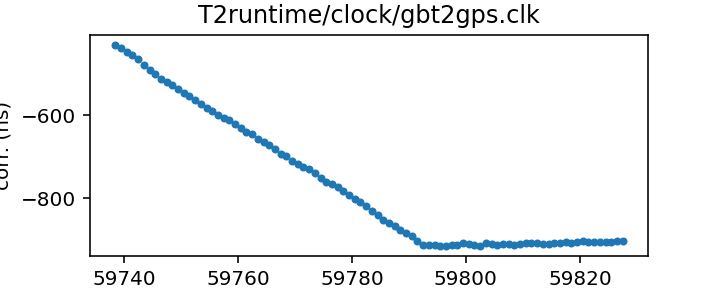
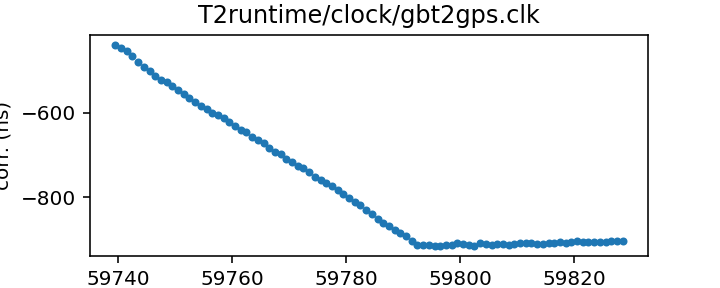
Routine gh-pages update from Github action Wed Sep  7 20:40:30 UTC 2022

diff --git a/status.md b/status.md
@@ -13,17 +13,17 @@ name of each clock file links to a page with more details.
 
 | Name | File | Corrections start | Corrections end | Last check date | Last check result 
 |:--- |:--- | --- | --- | --- |:--- 
-| [GPS to UTC](T2runtime/clock/gps2utc.clk.html) | `T2runtime/clock/gps2utc.clk` | 1993-01-01 MJD 48988.0 | 2022-07-29 MJD 59789.0 | 2022-09-06 | Unchanged 
-| [GPS to UTC (Combined Clock)](T2runtime/clock/gps2utc_cc.clk.html) | `T2runtime/clock/gps2utc_cc.clk` | 1993-01-01 MJD 48988.0 | 2022-07-29 MJD 59789.0 | 2022-09-06 | Unchanged 
-| [GPS to UTC (Corrected)](T2runtime/clock/gps2utc_c0p.clk.html) | `T2runtime/clock/gps2utc_c0p.clk` | 2010-12-29 MJD 55559.0 | 2022-07-29 MJD 59789.0 | 2022-09-06 | Unchanged 
-| [GBT](tempo/clock/time_gbt.dat.html) | `tempo/clock/time_gbt.dat` | 2000-12-31 MJD 51909.5 | 2022-09-05 MJD 59827.5 | 2022-09-06 | Updated 
-| [GBT (TEMPO2 converted from TEMPO)](T2runtime/clock/gbt2gps.clk.html) | `T2runtime/clock/gbt2gps.clk` | 2000-12-31 MJD 51909.5 | 2022-09-05 MJD 59827.5 | 2022-09-06 | Updated 
-| [Jodrell Bank](T2runtime/clock/jb2gps.clk.html) | `T2runtime/clock/jb2gps.clk` | 2006-10-13 MJD 54021.4 | 2021-11-03 MJD 59521.0 | 2022-08-31 | Unchanged 
-| [Jodrell Bank Roach](T2runtime/clock/jbroach2jb.clk.html) | `T2runtime/clock/jbroach2jb.clk` | 2006-10-13 MJD 54021.4 | 2018-03-20 MJD 58197.6 | 2022-08-31 | Unchanged 
-| [Jodrell Bank DFB](T2runtime/clock/jbdfb2jb.clk.html) | `T2runtime/clock/jbdfb2jb.clk` | 2006-10-13 MJD 54021.4 | 2017-05-11 MJD 57884.0 | 2022-08-31 | Unchanged 
+| [GPS to UTC](T2runtime/clock/gps2utc.clk.html) | `T2runtime/clock/gps2utc.clk` | 1993-01-01 MJD 48988.0 | 2022-07-29 MJD 59789.0 | 2022-09-07 | Unchanged 
+| [GPS to UTC (Combined Clock)](T2runtime/clock/gps2utc_cc.clk.html) | `T2runtime/clock/gps2utc_cc.clk` | 1993-01-01 MJD 48988.0 | 2022-07-29 MJD 59789.0 | 2022-09-07 | Unchanged 
+| [GPS to UTC (Corrected)](T2runtime/clock/gps2utc_c0p.clk.html) | `T2runtime/clock/gps2utc_c0p.clk` | 2010-12-29 MJD 55559.0 | 2022-07-29 MJD 59789.0 | 2022-09-07 | Unchanged 
+| [GBT](tempo/clock/time_gbt.dat.html) | `tempo/clock/time_gbt.dat` | 2000-12-31 MJD 51909.5 | 2022-09-06 MJD 59828.5 | 2022-09-07 | Updated 
+| [GBT (TEMPO2 converted from TEMPO)](T2runtime/clock/gbt2gps.clk.html) | `T2runtime/clock/gbt2gps.clk` | 2000-12-31 MJD 51909.5 | 2022-09-06 MJD 59828.5 | 2022-09-07 | Updated 
+| [Jodrell Bank](T2runtime/clock/jb2gps.clk.html) | `T2runtime/clock/jb2gps.clk` | 2006-10-13 MJD 54021.4 | 2021-11-03 MJD 59521.0 | 2022-09-07 | Unchanged 
+| [Jodrell Bank Roach](T2runtime/clock/jbroach2jb.clk.html) | `T2runtime/clock/jbroach2jb.clk` | 2006-10-13 MJD 54021.4 | 2018-03-20 MJD 58197.6 | 2022-09-07 | Unchanged 
+| [Jodrell Bank DFB](T2runtime/clock/jbdfb2jb.clk.html) | `T2runtime/clock/jbdfb2jb.clk` | 2006-10-13 MJD 54021.4 | 2017-05-11 MJD 57884.0 | 2022-09-07 | Unchanged 
 | [Meerkat (observatory)](T2runtime/clock/mk2utc_observatory.clk.html) | `T2runtime/clock/mk2utc_observatory.clk` | 2019-01-01 MJD 58484.0 | 2022-08-17 MJD 59809.0 | 2022-09-05 | **Failed to download** 
-| [Leap seconds](tempo/clock/leap.sec.html) | `tempo/clock/leap.sec` | 1972-07-01 MJD 41499.0 | 2017-01-01 MJD 57754.0 | 2022-09-06 | Unchanged 
-| [UT1 table](tempo/clock/ut1.dat.html) | `tempo/clock/ut1.dat` | 1973-01-02 MJD 41684.0 | 2023-09-09 MJD 60196.0 | 2022-09-06 | Unchanged 
+| [Leap seconds](tempo/clock/leap.sec.html) | `tempo/clock/leap.sec` | 1972-07-01 MJD 41499.0 | 2017-01-01 MJD 57754.0 | 2022-09-07 | Unchanged 
+| [UT1 table](tempo/clock/ut1.dat.html) | `tempo/clock/ut1.dat` | 1973-01-02 MJD 41684.0 | 2023-09-09 MJD 60196.0 | 2022-09-07 | Unchanged 
 
 
 
@@ -67,21 +67,21 @@ name of each clock file links to a page with more details.
 | [GBT (TEMPO2)](T2runtime/clock/gbt2gps_tempo2.clk.html) | `T2runtime/clock/gbt2gps_tempo2.clk` | 2000-12-31 MJD 51909.5 | 2020-02-25 MJD 58904.5 | 2022-09-05 | Unchanged 
 | [Jodrell Bank (TEMPO)](tempo/clock/time_jb.dat.html) | `tempo/clock/time_jb.dat` | 2006-10-13 MJD 54021.4 | 2019-05-13 MJD 58616.2 | 2022-09-01 | Unchanged 
 | [VLA](tempo/clock/time_vla.dat.html) | `tempo/clock/time_vla.dat` | 1990-10-27 MJD 48191.2 | 2021-03-07 MJD 59280.5 | 2022-09-01 | **Failed to download** 
-| [VLA (TEMPO2)](T2runtime/clock/vla2gps.clk.html) | `T2runtime/clock/vla2gps.clk` | 2015-02-01 MJD 57054.6 | 2021-03-07 MJD 59280.5 | 2022-08-31 | Unchanged 
-| [VLA to NIST](T2runtime/clock/vla2nist.clk.html) | `T2runtime/clock/vla2nist.clk` | 1990-10-27 MJD 48191.2 | 1993-11-13 MJD 49304.0 | 2022-08-31 | Unchanged 
+| [VLA (TEMPO2)](T2runtime/clock/vla2gps.clk.html) | `T2runtime/clock/vla2gps.clk` | 2015-02-01 MJD 57054.6 | 2021-03-07 MJD 59280.5 | 2022-09-07 | Unchanged 
+| [VLA to NIST](T2runtime/clock/vla2nist.clk.html) | `T2runtime/clock/vla2nist.clk` | 1990-10-27 MJD 48191.2 | 1993-11-13 MJD 49304.0 | 2022-09-07 | Unchanged 
 | [FAST](tempo/clock/time_fast.dat.html) | `tempo/clock/time_fast.dat` | 2017-07-26 MJD 57960.4 | 2019-09-18 MJD 58744.0 | 2022-09-01 | **Failed to download** 
 | [WSRT](T2runtime/clock/wsrt2gps.clk.html) | `T2runtime/clock/wsrt2gps.clk` | 1999-01-01 MJD 51179.5 | 2015-06-29 MJD 57202.1 | 2022-09-01 | Unchanged 
 | [WSRT (TEMPO)](tempo/clock/time_wsrt.dat.html) | `tempo/clock/time_wsrt.dat` | 1987-07-24 MJD 47000.0 | 2007-12-24 MJD 54458.0 | 2022-09-01 | **Validation failed** 
-| [Parkes](T2runtime/clock/pks2gps.clk.html) | `T2runtime/clock/pks2gps.clk` | 1858-11-17 MJD 0.0 | 2019-07-31 MJD 58695.4 | 2022-08-31 | Unchanged 
+| [Parkes](T2runtime/clock/pks2gps.clk.html) | `T2runtime/clock/pks2gps.clk` | 1858-11-17 MJD 0.0 | 2019-07-31 MJD 58695.4 | 2022-09-07 | Unchanged 
 | [Parkes (TEMPO)](tempo/clock/time_pks.dat.html) | `tempo/clock/time_pks.dat` | 1979-05-07 MJD 44000.0 | 2011-07-03 MJD 55745.8 | 2022-09-01 | **Validation failed** 
-| [SRT](T2runtime/clock/srt2gps.clk.html) | `T2runtime/clock/srt2gps.clk` | 2013-03-20 MJD 56371.0 | 2019-12-11 MJD 58828.0 | 2022-08-31 | Unchanged 
-| [Effelsberg](T2runtime/clock/eff2gps.clk.html) | `T2runtime/clock/eff2gps.clk` | 1993-11-29 MJD 49320.0 | 2015-06-22 MJD 57195.5 | 2022-08-31 | Unchanged 
-| [Effelsberg Asterix/PSRix](T2runtime/clock/effix2gps.clk.html) | `T2runtime/clock/effix2gps.clk` | 2011-01-01 MJD 55562.5 | 2021-03-21 MJD 59294.5 | 2022-08-31 | Unchanged 
+| [SRT](T2runtime/clock/srt2gps.clk.html) | `T2runtime/clock/srt2gps.clk` | 2013-03-20 MJD 56371.0 | 2019-12-11 MJD 58828.0 | 2022-09-07 | Unchanged 
+| [Effelsberg](T2runtime/clock/eff2gps.clk.html) | `T2runtime/clock/eff2gps.clk` | 1993-11-29 MJD 49320.0 | 2015-06-22 MJD 57195.5 | 2022-09-07 | Unchanged 
+| [Effelsberg Asterix/PSRix](T2runtime/clock/effix2gps.clk.html) | `T2runtime/clock/effix2gps.clk` | 2011-01-01 MJD 55562.5 | 2021-03-21 MJD 59294.5 | 2022-09-07 | Unchanged 
 | [NUPPI](tempo/clock/time_nuppi.dat.html) | `tempo/clock/time_nuppi.dat` | 2005-03-07 MJD 53436.0 | 2015-11-08 MJD 57334.6 | 2022-09-01 | Unchanged 
-| [Meerkat (TEMPO2)](T2runtime/clock/mk2utc.clk.html) | `T2runtime/clock/mk2utc.clk` | 2019-01-01 MJD 58484.0 | 2021-02-22 MJD 59268.0 | 2022-08-31 | Unchanged 
-| [MOST](T2runtime/clock/mo2gps.clk.html) | `T2runtime/clock/mo2gps.clk` | 2003-12-27 MJD 53000.0 | 2018-09-06 MJD 58367.0 | 2022-08-31 | Unchanged 
-| [Nancay to obspm](T2runtime/clock/ncyobs2obspm.clk.html) | `T2runtime/clock/ncyobs2obspm.clk` | 1988-05-18 MJD 47299.6 | 2021-11-01 MJD 59519.6 | 2022-08-31 | Unchanged 
-| [obspm](T2runtime/clock/obspm2gps.clk.html) | `T2runtime/clock/obspm2gps.clk` | 2003-12-01 MJD 52974.0 | 2021-08-28 MJD 59454.0 | 2022-08-31 | Unchanged 
+| [Meerkat (TEMPO2)](T2runtime/clock/mk2utc.clk.html) | `T2runtime/clock/mk2utc.clk` | 2019-01-01 MJD 58484.0 | 2021-02-22 MJD 59268.0 | 2022-09-07 | Unchanged 
+| [MOST](T2runtime/clock/mo2gps.clk.html) | `T2runtime/clock/mo2gps.clk` | 2003-12-27 MJD 53000.0 | 2018-09-06 MJD 58367.0 | 2022-09-07 | Unchanged 
+| [Nancay to obspm](T2runtime/clock/ncyobs2obspm.clk.html) | `T2runtime/clock/ncyobs2obspm.clk` | 1988-05-18 MJD 47299.6 | 2021-11-01 MJD 59519.6 | 2022-09-07 | Unchanged 
+| [obspm](T2runtime/clock/obspm2gps.clk.html) | `T2runtime/clock/obspm2gps.clk` | 2003-12-01 MJD 52974.0 | 2021-08-28 MJD 59454.0 | 2022-09-07 | Unchanged 
 
 
 ### Further information:

diff --git a/T2runtime/clock/gps2utc_c0p.clk.md b/T2runtime/clock/gps2utc_c0p.clk.md
@@ -30,12 +30,11 @@ about the BIPM's published corrections, contact <tai@bipm.org>.
 | Clock file start | 2010-12-29 MJD 55559.0 |
 | Clock file end | 2022-07-29 MJD 59789.0 |
 | Update interval (days) | 1 |
-| Last update attempt | 2022-09-06 |
+| Last update attempt | 2022-09-07 |
 | Last update result | Unchanged |
 
 Log entries from the last few update attempts:
 ```
-2022-08-28 20:34:12.081 - Validation failed: New version of T2runtime/clock/gps2utc_c0p.clk clock corrections differ from old version where they overlap in 1 places
 2022-08-29 20:35:23.143 - Validation failed: New version of T2runtime/clock/gps2utc_c0p.clk clock corrections differ from old version where they overlap in 1 places
 2022-08-30 20:35:27.567 - Validation failed: New version of T2runtime/clock/gps2utc_c0p.clk clock corrections differ from old version where they overlap in 1 places
 2022-08-31 16:37:46.540 - Validation failed: New version of T2runtime/clock/gps2utc_c0p.clk has decreased from 4201 to 4171 measurements.
@@ -45,6 +44,7 @@ Log entries from the last few update attempts:
 2022-09-04 20:35:16.200 - Unchanged
 2022-09-05 20:35:28.600 - Unchanged
 2022-09-06 20:35:58.451 - Unchanged
+2022-09-07 20:40:06.098 - Unchanged
 ```
 [Full log](https://raw.githubusercontent.com/ipta/pulsar-clock-corrections/main/log/T2runtime/clock/gps2utc_c0p.clk.log)
 

diff --git a/T2runtime/clock/gps2utc.clk.md b/T2runtime/clock/gps2utc.clk.md
@@ -32,12 +32,11 @@ about the BIPM's published corrections, contact <tai@bipm.org>.
 | Clock file start | 1993-01-01 MJD 48988.0 |
 | Clock file end | 2022-07-29 MJD 59789.0 |
 | Update interval (days) | 1 |
-| Last update attempt | 2022-09-06 |
+| Last update attempt | 2022-09-07 |
 | Last update result | Unchanged |
 
 Log entries from the last few update attempts:
 ```
-2022-08-28 20:34:12.018 - Validation failed: New version of T2runtime/clock/gps2utc.clk clock corrections differ from old version where they overlap in 1 places
 2022-08-29 20:35:23.082 - Validation failed: New version of T2runtime/clock/gps2utc.clk clock corrections differ from old version where they overlap in 1 places
 2022-08-30 20:35:27.491 - Validation failed: New version of T2runtime/clock/gps2utc.clk clock corrections differ from old version where they overlap in 1 places
 2022-08-31 16:37:46.504 - Validation failed: New version of T2runtime/clock/gps2utc.clk has decreased from 10828 to 10798 measurements.
@@ -47,6 +46,7 @@ Log entries from the last few update attempts:
 2022-09-04 20:35:16.130 - Unchanged
 2022-09-05 20:35:28.547 - Unchanged
 2022-09-06 20:35:58.396 - Unchanged
+2022-09-07 20:40:06.054 - Unchanged
 ```
 [Full log](https://raw.githubusercontent.com/ipta/pulsar-clock-corrections/main/log/T2runtime/clock/gps2utc.clk.log)
 

diff --git a/tempo/clock/time_gbt.dat.md b/tempo/clock/time_gbt.dat.md
@@ -18,14 +18,13 @@ If questions arise, contact Ryan S. Lynch <rlynch@nrao.edu>.
 | Format | tempo |
 | Bogus last correction | False |
 | Clock file start | 2000-12-31 MJD 51909.5 |
-| Clock file end | 2022-09-05 MJD 59827.5 |
+| Clock file end | 2022-09-06 MJD 59828.5 |
 | Update interval (days) | 1 |
-| Last update attempt | 2022-09-06 |
+| Last update attempt | 2022-09-07 |
 | Last update result | Updated |
 
 Log entries from the last few update attempts:
 ```
-2022-08-28 20:34:12.413 - Validation failed: New version of tempo/clock/time_gbt.dat clock corrections differ from old version where they overlap in 1 places
 2022-08-29 20:35:23.989 - Validation failed: New version of tempo/clock/time_gbt.dat clock corrections differ from old version where they overlap in 1 places
 2022-08-30 20:35:28.495 - Validation failed: New version of tempo/clock/time_gbt.dat clock corrections differ from old version where they overlap in 1 places
 2022-08-31 16:37:46.402 - Updated
@@ -35,6 +34,7 @@ Log entries from the last few update attempts:
 2022-09-04 20:35:17.025 - Updated
 2022-09-05 20:35:29.421 - Updated
 2022-09-06 20:35:59.335 - Updated
+2022-09-07 20:40:06.476 - Updated
 ```
 [Full log](https://raw.githubusercontent.com/ipta/pulsar-clock-corrections/main/log/tempo/clock/time_gbt.dat.log)
 

diff --git a/T2runtime/clock/gbt2gps.clk.md b/T2runtime/clock/gbt2gps.clk.md
@@ -23,14 +23,13 @@ If questions arise about the conversion, contact Anne Archibald
 | Format | tempo2 |
 | Bogus last correction | False |
 | Clock file start | 2000-12-31 MJD 51909.5 |
-| Clock file end | 2022-09-05 MJD 59827.5 |
+| Clock file end | 2022-09-06 MJD 59828.5 |
 | Update interval (days) | 1 |
-| Last update attempt | 2022-09-06 |
+| Last update attempt | 2022-09-07 |
 | Last update result | Updated |
 
 Log entries from the last few update attempts:
 ```
-2022-07-30 20:32:10.692 - Updated
 2022-07-31 20:33:29.497 - Updated
 2022-08-01 20:37:41.202 - Updated
 2022-08-31 16:39:03.349 - Updated
@@ -40,12 +39,13 @@ Log entries from the last few update attempts:
 2022-09-04 20:35:17.118 - Updated
 2022-09-05 20:35:29.913 - Updated
 2022-09-06 20:35:59.422 - Updated
+2022-09-07 20:40:06.548 - Updated
 ```
 [Full log](https://raw.githubusercontent.com/ipta/pulsar-clock-corrections/main/log/T2runtime/clock/gbt2gps.clk.log)
 
 Leading comments from clock file:
 
-    # This file was automatically converted from tempo/clock/time_gbt.dat on 2022-09-06 20:35:59.339
+    # This file was automatically converted from tempo/clock/time_gbt.dat on 2022-09-07 20:40:06.478
 
 
 

diff --git a/T2runtime/clock/vla2nist.clk.md b/T2runtime/clock/vla2nist.clk.md
@@ -16,12 +16,11 @@ This file is pulled from the TEMPO2 repository and may not be fully up-to-date.
 | Clock file start | 1990-10-27 MJD 48191.2 |
 | Clock file end | 1993-11-13 MJD 49304.0 |
 | Update interval (days) | 7 |
-| Last update attempt | 2022-08-31 |
+| Last update attempt | 2022-09-07 |
 | Last update result | Unchanged |
 
 Log entries from the last few update attempts:
 ```
-2022-06-29 20:36:08.172 - Unchanged
 2022-07-06 20:33:09.210 - Unchanged
 2022-07-13 20:34:15.347 - Unchanged
 2022-07-20 20:36:47.939 - Unchanged
@@ -31,6 +30,7 @@ Log entries from the last few update attempts:
 2022-08-17 20:34:04.884 - Unchanged
 2022-08-24 20:34:36.417 - Unchanged
 2022-08-31 20:34:57.441 - Unchanged
+2022-09-07 20:40:07.572 - Unchanged
 ```
 [Full log](https://raw.githubusercontent.com/ipta/pulsar-clock-corrections/main/log/T2runtime/clock/vla2nist.clk.log)
 

diff --git a/T2runtime/clock/srt2gps.clk.md b/T2runtime/clock/srt2gps.clk.md
@@ -16,12 +16,11 @@ This file is pulled from the TEMPO2 repository and may not be fully up-to-date.
 | Clock file start | 2013-03-20 MJD 56371.0 |
 | Clock file end | 2019-12-11 MJD 58828.0 |
 | Update interval (days) | 7 |
-| Last update attempt | 2022-08-31 |
+| Last update attempt | 2022-09-07 |
 | Last update result | Unchanged |
 
 Log entries from the last few update attempts:
 ```
-2022-06-29 20:36:09.137 - Unchanged
 2022-07-06 20:33:09.809 - Unchanged
 2022-07-13 20:34:15.833 - Unchanged
 2022-07-20 20:36:48.508 - Unchanged
@@ -31,6 +30,7 @@ Log entries from the last few update attempts:
 2022-08-17 20:34:05.471 - Unchanged
 2022-08-24 20:34:37.625 - Unchanged
 2022-08-31 20:34:57.967 - Unchanged
+2022-09-07 20:40:07.975 - Unchanged
 ```
 [Full log](https://raw.githubusercontent.com/ipta/pulsar-clock-corrections/main/log/T2runtime/clock/srt2gps.clk.log)
 

diff --git a/T2runtime/clock/vla2gps.clk.md b/T2runtime/clock/vla2gps.clk.md
@@ -16,12 +16,11 @@ This file is pulled from the TEMPO2 repository and may not be fully up-to-date.
 | Clock file start | 2015-02-01 MJD 57054.6 |
 | Clock file end | 2021-03-07 MJD 59280.5 |
 | Update interval (days) | 7 |
-| Last update attempt | 2022-08-31 |
+| Last update attempt | 2022-09-07 |
 | Last update result | Unchanged |
 
 Log entries from the last few update attempts:
 ```
-2022-06-29 20:36:07.860 - Unchanged
 2022-07-06 20:33:09.034 - Unchanged
 2022-07-13 20:34:15.178 - Unchanged
 2022-07-20 20:36:47.734 - Unchanged
@@ -31,6 +30,7 @@ Log entries from the last few update attempts:
 2022-08-17 20:34:04.699 - Unchanged
 2022-08-24 20:34:36.005 - Unchanged
 2022-08-31 20:34:57.244 - Unchanged
+2022-09-07 20:40:07.430 - Unchanged
 ```
 [Full log](https://raw.githubusercontent.com/ipta/pulsar-clock-corrections/main/log/T2runtime/clock/vla2gps.clk.log)
 

diff --git a/T2runtime/clock/mk2utc.clk.md b/T2runtime/clock/mk2utc.clk.md
@@ -16,12 +16,11 @@ This file is pulled from the TEMPO2 repository and may not be fully up-to-date.
 | Clock file start | 2019-01-01 MJD 58484.0 |
 | Clock file end | 2021-02-22 MJD 59268.0 |
 | Update interval (days) | 7 |
-| Last update attempt | 2022-08-31 |
+| Last update attempt | 2022-09-07 |
 | Last update result | Unchanged |
 
 Log entries from the last few update attempts:
 ```
-2022-06-29 20:36:10.647 - Unchanged
 2022-07-06 20:33:10.634 - Unchanged
 2022-07-13 20:34:16.550 - Unchanged
 2022-07-20 20:36:49.303 - Unchanged
@@ -31,6 +30,7 @@ Log entries from the last few update attempts:
 2022-08-17 20:34:06.331 - Unchanged
 2022-08-24 20:34:39.370 - Unchanged
 2022-08-31 20:34:58.692 - Unchanged
+2022-09-07 20:40:08.550 - Unchanged
 ```
 [Full log](https://raw.githubusercontent.com/ipta/pulsar-clock-corrections/main/log/T2runtime/clock/mk2utc.clk.log)
 

diff --git a/T2runtime/clock/mo2gps.clk.md b/T2runtime/clock/mo2gps.clk.md
@@ -16,12 +16,11 @@ This file is pulled from the TEMPO2 repository and may not be fully up-to-date.
 | Clock file start | 2003-12-27 MJD 53000.0 |
 | Clock file end | 2018-09-06 MJD 58367.0 |
 | Update interval (days) | 7 |
-| Last update attempt | 2022-08-31 |
+| Last update attempt | 2022-09-07 |
 | Last update result | Unchanged |
 
 Log entries from the last few update attempts:
 ```
-2022-06-29 20:36:10.992 - Unchanged
 2022-07-06 20:33:10.811 - Unchanged
 2022-07-13 20:34:16.663 - Unchanged
 2022-07-20 20:36:49.528 - Unchanged
@@ -31,6 +30,7 @@ Log entries from the last few update attempts:
 2022-08-17 20:34:06.487 - Unchanged
 2022-08-24 20:34:39.751 - Unchanged
 2022-08-31 20:34:58.882 - Unchanged
+2022-09-07 20:40:08.646 - Unchanged
 ```
 [Full log](https://raw.githubusercontent.com/ipta/pulsar-clock-corrections/main/log/T2runtime/clock/mo2gps.clk.log)
 

diff --git a/T2runtime/clock/gps2utc_cc.clk.md b/T2runtime/clock/gps2utc_cc.clk.md
@@ -29,12 +29,11 @@ about the BIPM's published corrections, contact <tai@bipm.org>.
 | Clock file start | 1993-01-01 MJD 48988.0 |
 | Clock file end | 2022-07-29 MJD 59789.0 |
 | Update interval (days) | 1 |
-| Last update attempt | 2022-09-06 |
+| Last update attempt | 2022-09-07 |
 | Last update result | Unchanged |
 
 Log entries from the last few update attempts:
 ```
-2022-08-28 20:34:12.051 - Unchanged
 2022-08-29 20:35:23.114 - Unchanged
 2022-08-30 20:35:27.531 - Unchanged
 2022-08-31 20:34:56.230 - Unchanged
@@ -44,6 +43,7 @@ Log entries from the last few update attempts:
 2022-09-04 20:35:16.183 - Unchanged
 2022-09-05 20:35:28.587 - Unchanged
 2022-09-06 20:35:58.436 - Unchanged
+2022-09-07 20:40:06.087 - Unchanged
 ```
 [Full log](https://raw.githubusercontent.com/ipta/pulsar-clock-corrections/main/log/T2runtime/clock/gps2utc_cc.clk.log)
 

diff --git a/T2runtime/clock/ncyobs2obspm.clk.md b/T2runtime/clock/ncyobs2obspm.clk.md
@@ -21,12 +21,11 @@ thus here) can be expected to be somewhat up to date.
 | Clock file start | 1988-05-18 MJD 47299.6 |
 | Clock file end | 2021-11-01 MJD 59519.6 |
 | Update interval (days) | 7 |
-| Last update attempt | 2022-08-31 |
+| Last update attempt | 2022-09-07 |
 | Last update result | Unchanged |
 
 Log entries from the last few update attempts:
 ```
-2022-06-29 20:36:11.454 - Unchanged
 2022-07-06 20:33:11.030 - Unchanged
 2022-07-13 20:34:16.845 - Unchanged
 2022-07-20 20:36:49.779 - Unchanged
@@ -36,6 +35,7 @@ Log entries from the last few update attempts:
 2022-08-17 20:34:06.711 - Unchanged
 2022-08-24 20:34:40.346 - Unchanged
 2022-08-31 20:34:59.125 - Unchanged
+2022-09-07 20:40:08.835 - Unchanged
 ```
 [Full log](https://raw.githubusercontent.com/ipta/pulsar-clock-corrections/main/log/T2runtime/clock/ncyobs2obspm.clk.log)
 
